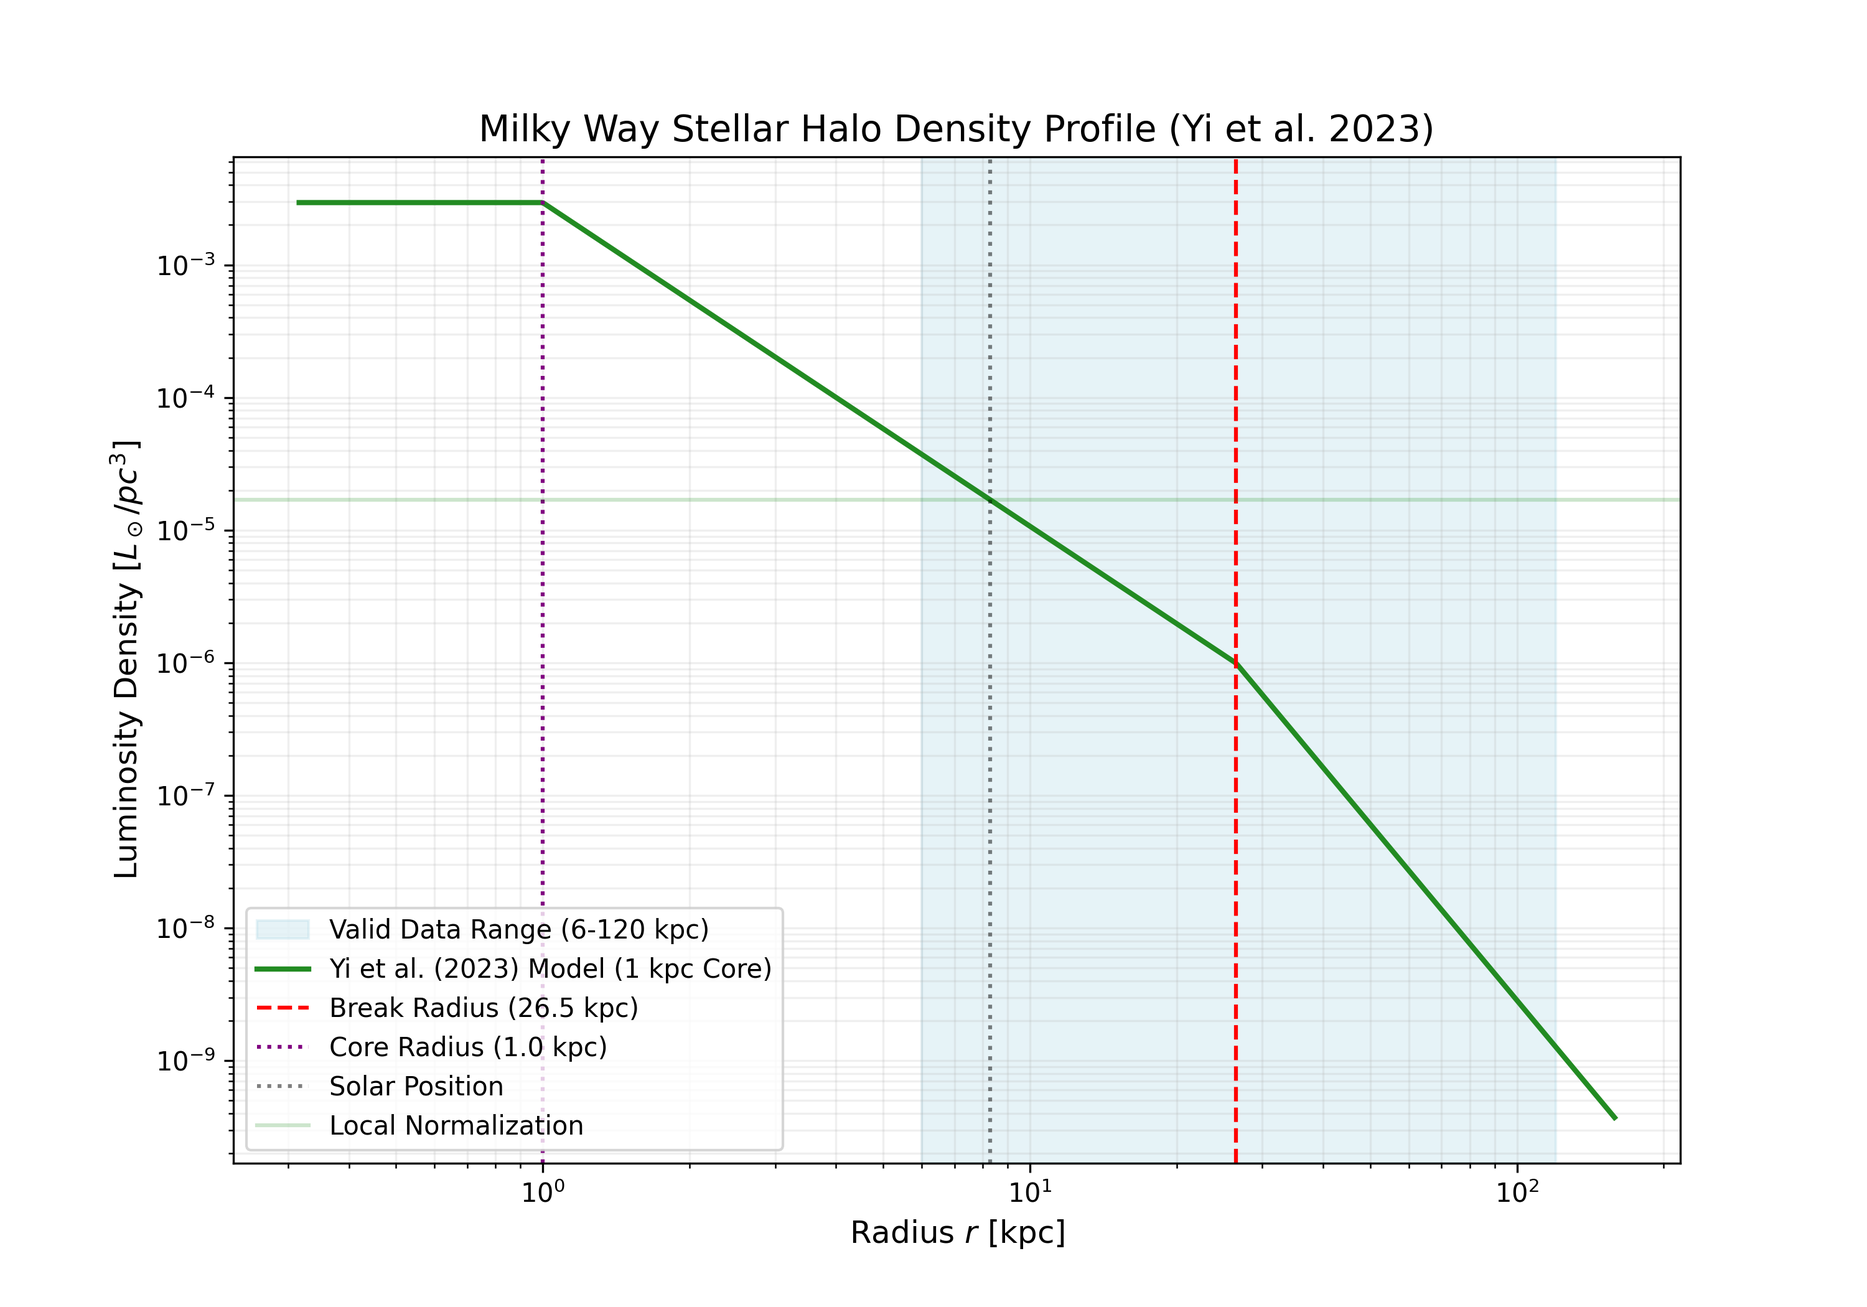
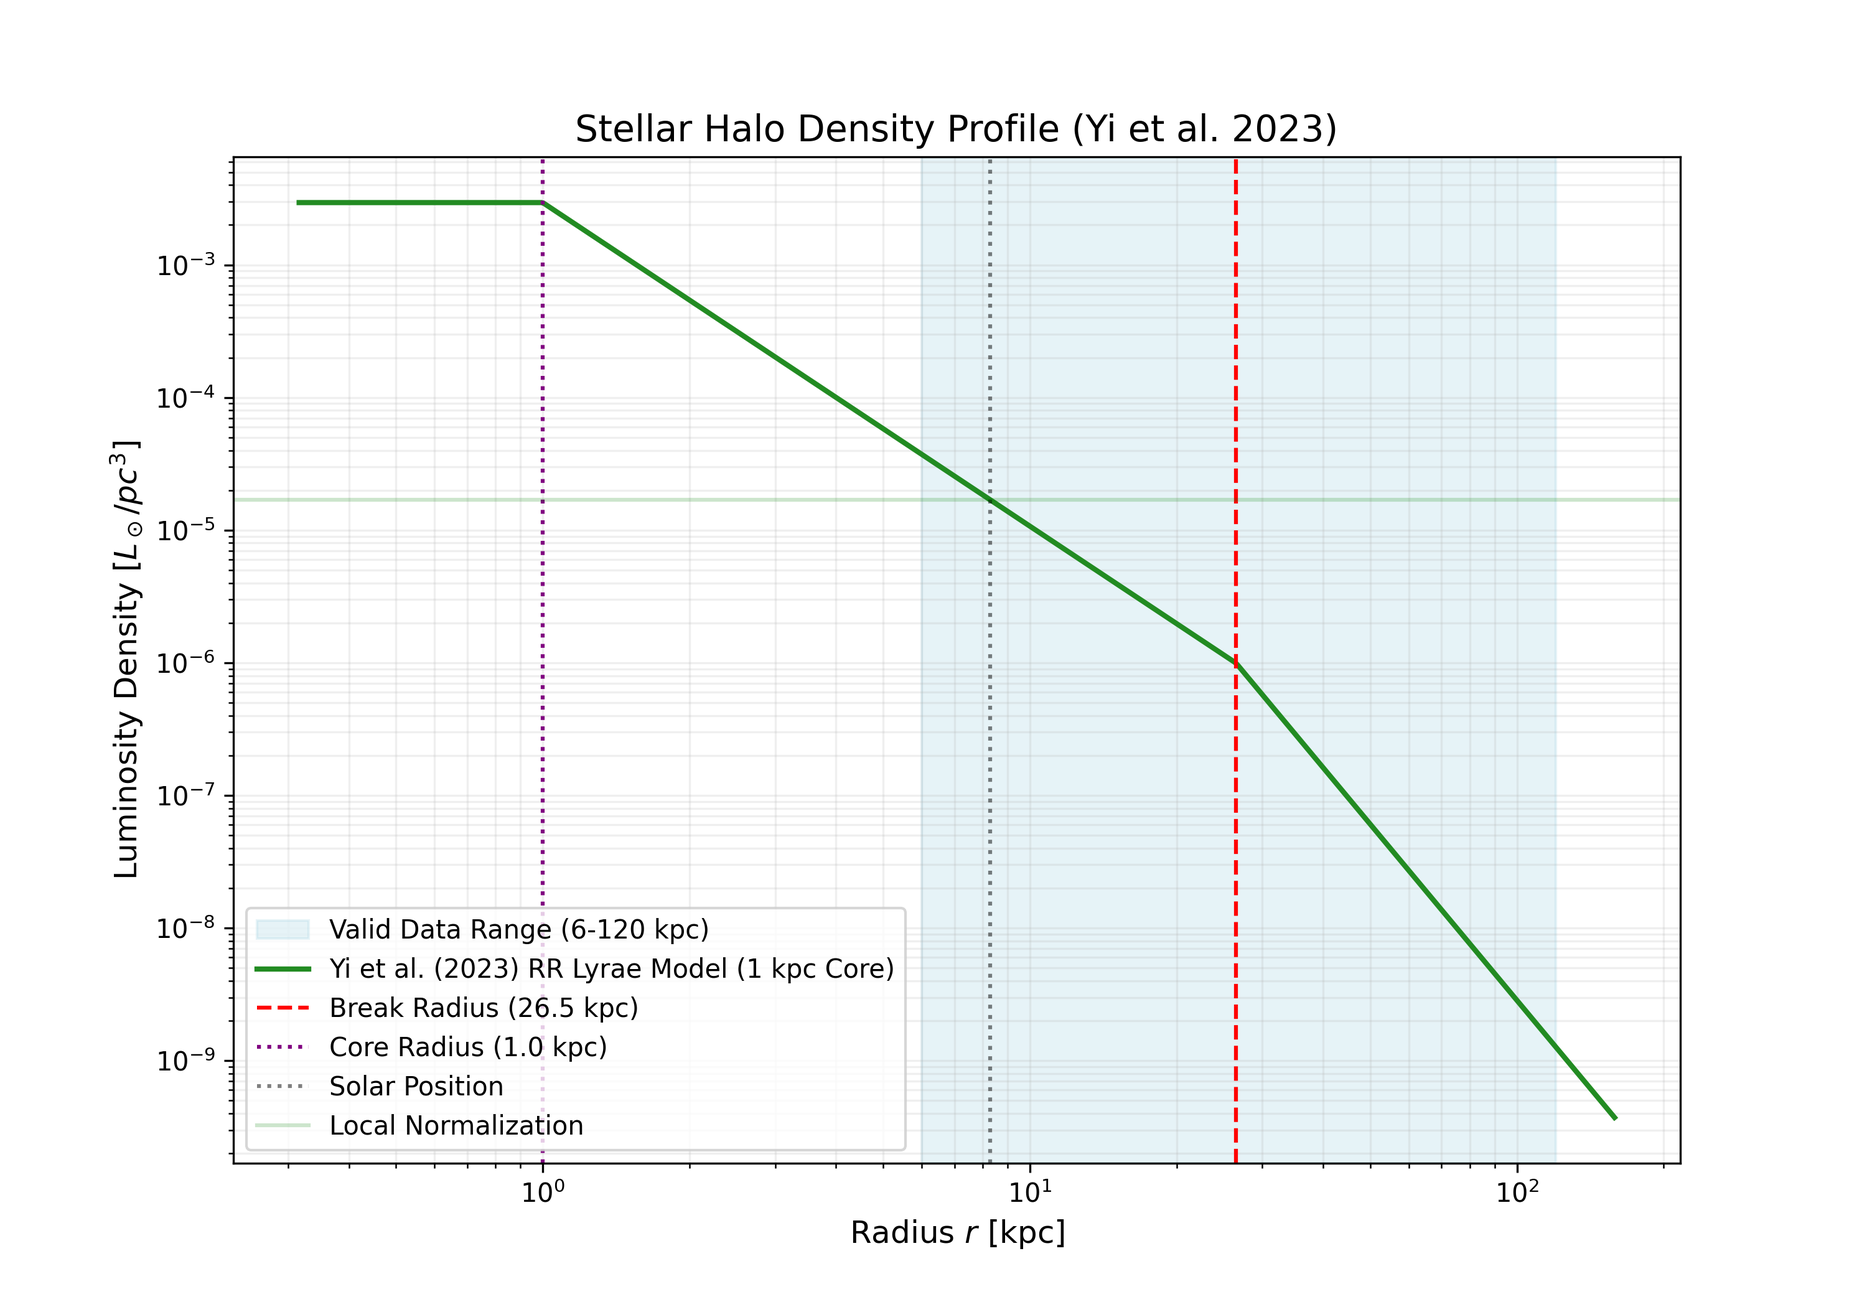
Add files via upload
Fixed a bunch of bugs spotted by PL

Changed region(s): [[0.248, 0.0929, 0.775, 0.1238], [0.279, 0.7119, 0.434, 0.7738]]

diff --git a/script.js b/script.js
@@ -76,7 +76,7 @@ const ModelPhysics = {
             cavieres2025: 4 * Math.PI * 0.8 * 0.7,
             feng2024: 4 * Math.PI * 1.0 * 1.0,
             fukushima2025: 4 * Math.PI * 1.0 * 1.56,
-            ye2023: 4 * Math.PI * 1.0 * 0.73,
+            yi2023: 4 * Math.PI * 1.0 * 0.73,
             tao2026: 4 * Math.PI * 1.0 * 0.8,
             lane2023: 4 * Math.PI * 1.0 * 1.25
         };
@@ -109,7 +109,7 @@ const ModelPhysics = {
             cavieres2025: 0.98,
             feng2024: 1.0,
             fukushima2025: 1.56,
-            ye2023: 0.73,
+            yi2023: 0.73,
             tao2026: 0.8,
             lane2023: 1.25
         };
@@ -292,7 +292,7 @@ const ModelPhysics = {
         return ModelPhysics.applyCore(r, core, (rad) => rho_norm * getRaw(rad));
     },
 
-    ye2023: (r) => {
+    yi2023: (r) => {
         const ai=2.44, ao=4.41, rb=26.5, core=1.0, R_sun=8.275;
         const getRaw = (rad) => rad < rb ? Math.pow(rad, -ai) : Math.pow(rb, ao-ai) * Math.pow(rad, -ao);
         const rho_norm = (1.7e-5) / getRaw(R_sun);

diff --git a/compendium_plots.py b/compendium_plots.py
@@ -1,0 +1,278 @@
+import numpy as np
+import matplotlib.pyplot as plt
+from matplotlib.ticker import LogFormatterExponent
+import json
+
+# =============================================================================
+# MILKY WAY STELLAR HALO COMPENDIUM - STANDALONE VISUALIZATION SUITE
+# This script replicates the interactive visualizations from the HALOLF project.
+# =============================================================================
+
+# Embedded Data (Latest parameters as of June 2026)
+MODELS_JSON = """
+[
+  {"id": "staf256", "title": "Horta & Schiavon (2025)", "luminosity": "1.81e+08 L⊙", "range": {"min": 0, "max": 12}},
+  {"id": "han2022", "title": "Han et al. (2022)", "luminosity": "2.40e+08 L⊙", "range": {"min": 6, "max": 60}},
+  {"id": "amarante2024", "title": "Amarante et al. (2024)", "luminosity": "3.61e+08 L⊙", "range": {"min": 5, "max": 120}},
+  {"id": "chen2023", "title": "Chen et al. (2023)", "luminosity": "3.68e+08 L⊙", "range": {"min": 5, "max": 100}},
+  {"id": "yang2022", "title": "Yang et al. (2022)", "luminosity": "2.07e+08 L⊙", "range": {"min": 5, "max": 50}},
+  {"id": "hernitschek2018", "title": "Hernitschek et al. (2018)", "luminosity": "2.24e+09 L⊙", "range": {"min": 20, "max": 131}},
+  {"id": "horta2021", "title": "Horta et al. (2021)", "luminosity": "3.32e+08 L⊙", "range": {"min": 0, "max": 10}},
+  {"id": "kurbatov2024", "title": "Kurbatov et al. (2024)", "luminosity": "3.99e+08 L⊙", "range": {"min": 1, "max": 18}},
+  {"id": "libinney2022", "title": "Li & Binney (2022)", "luminosity": "5.36e+08 L⊙", "range": {"min": 0, "max": 100}},
+  {"id": "lopezcorredoira2024", "title": "López-Corredoira et al. (2024)", "luminosity": "3.41e+09 L⊙", "range": {"min": 25, "max": 90}},
+  {"id": "lane2023", "title": "Lane et al. (2023)", "luminosity": "4.43e+08 L⊙", "range": {"min": 5, "max": 50}},
+  {"id": "lucey2026", "title": "Lucey et al. (2026)", "luminosity": "1.68e+09 L⊙", "range": {"min": 0.2, "max": 120}},
+  {"id": "mackereth2020", "title": "Mackereth & Bovy (2020)", "luminosity": "3.31e+08 L⊙", "range": {"min": 5, "max": 30}},
+  {"id": "medina2024", "title": "Medina et al. (2024)", "luminosity": "3.90e+08 L⊙", "range": {"min": 5, "max": 200}},
+  {"id": "nibauer2025", "title": "Nibauer et al. (2025)", "luminosity": "9.28e+08 L⊙", "range": {"min": 5, "max": 30}},
+  {"id": "stringer2021", "title": "Stringer et al. (2021)", "luminosity": "3.20e+08 L⊙", "range": {"min": 10, "max": 100}},
+  {"id": "suzuki2026", "title": "Suzuki et al. (2026)", "luminosity": "3.97e+08 L⊙", "range": {"min": 5, "max": 100}},
+  {"id": "wu2025", "title": "Wu et al. (2025)", "luminosity": "1.34e+09 L⊙", "range": {"min": 5, "max": 5}},
+  {"id": "wu2022", "title": "Wu et al. (2022)", "luminosity": "1.83e+09 L⊙", "range": {"min": 5, "max": 120}},
+  {"id": "rix2022", "title": "Rix et al. (2022)", "luminosity": "1.34e+09 L⊙", "range": {"min": 0, "max": 5}},
+  {"id": "cavieres2025", "title": "Cavieres et al. (2025)", "luminosity": "5.79e+08 L⊙", "range": {"min": 20, "max": 100}},
+  {"id": "feng2024", "title": "Feng et al. (2024)", "luminosity": "1.52e+09 L⊙", "range": {"min": 20, "max": 300}},
+  {"id": "fukushima2025", "title": "Fukushima et al. (2025)", "luminosity": "1.82e+09 L⊙", "range": {"min": 36, "max": 575}},
+  {"id": "yi2023", "title": "Yi et al. (2023)", "luminosity": "3.84e+08 L⊙", "range": {"min": 6, "max": 120}},
+  {"id": "tao2026", "title": "Tao et al. (2026)", "luminosity": "6.50e+08 L⊙", "range": {"min": 10, "max": 100}},
+  {"id": "medina2018", "title": "Medina et al. (2018)", "luminosity": "1.19e+09 L⊙", "range": {"min": 10, "max": 200}}
+]
+"""
+
+class ModelPhysics:
+    R_SUN = 8.275
+    RHO_LOCAL_PC3 = 1.7e-5
+    
+    @staticmethod
+    def get_volume_factor(id, r):
+        # 4 * pi * p * q
+        factors = {
+            'staf256': 4 * np.pi * 0.80 * 0.66,
+            'han2022': 4 * np.pi * 0.81 * 0.73,
+            'amarante2024': 4 * np.pi * 1.0 * (0.77 if r < 30 else 0.99),
+            'chen2023': 4 * np.pi * 1.0 * 0.73,
+            'yang2022': 4 * np.pi * 1.0 * (0.5 if r < 5 else (0.8 if r > 30 else 0.5 + 0.3 * (r - 5) / 25)),
+            'hernitschek2018': 4 * np.pi * 1.0 * 0.918,
+            'horta2021': 4 * np.pi * 0.73 * 0.56,
+            'kurbatov2024': 4 * np.pi * 1.0 * 0.5,
+            'libinney2022': 4 * np.pi * 1.0 * 0.65,
+            'lopezcorredoira2024': 4 * np.pi * 1.0 * 1.0,
+            'lucey2026': 4 * np.pi * 1.0 * (1.31 if r < 10 else 0.70),
+            'mackereth2020': 4 * np.pi * 0.73 * 0.56,
+            'medina2024': 4 * np.pi * 1.0 * 0.7,
+            'medina2018': 4 * np.pi * 1.0 * 0.7,
+            'nibauer2025': 4 * np.pi * 0.75 * 0.70,
+            'stringer2021': 4 * np.pi * 1.0 * 0.7,
+            'suzuki2026': 4 * np.pi * 1.0 * 0.7,
+            'wu2025': 4 * np.pi * 1.0 * (0.4 if r < 8 else (0.8 if r > 25 else 0.4 + 0.4 * (r - 8) / 17)),
+            'wu2022': 4 * np.pi * 1.0 * (0.4 if r < 8 else (0.8 if r > 25 else 0.4 + 0.4 * (r - 8) / 17)),
+            'rix2022': 4 * np.pi * 1.0 * 1.0,
+            'cavieres2025': 4 * np.pi * 1.0 * 0.98,
+            'feng2024': 4 * np.pi * 1.0 * 1.0,
+            'fukushima2025': 4 * np.pi * 1.0 * 1.56,
+            'yi2023': 4 * np.pi * 1.0 * 0.73,
+            'tao2026': 4 * np.pi * 1.0 * 0.8,
+            'lane2023': 4 * np.pi * 1.0 * 1.25
+        }
+        return factors.get(id, 4 * np.pi)
+
+    @staticmethod
+    def apply_core(r, core, val):
+        return val if r >= core else ModelPhysics.get_val_at(core, val, r) # simplified
+
+    @staticmethod
+    def get_density(id, r):
+        # Implementation of each model function from script.js
+        def spl(rad, a, core=1.0):
+            r_eff = max(rad, core)
+            return ModelPhysics.RHO_LOCAL_PC3 / (ModelPhysics.R_SUN**-a) * (r_eff**-a)
+
+        def bpl(rad, ai, ao, rb, core=1.0):
+            def raw(r_val):
+                if r_val < rb: return r_val**-ai
+                return (rb**(ao-ai)) * (r_val**-ao)
+            r_eff = max(rad, core)
+            norm = ModelPhysics.RHO_LOCAL_PC3 / raw(ModelPhysics.R_SUN)
+            return norm * raw(r_eff)
+
+        def dbpl(rad, a1, a2, a3, rb1, rb2, core=1.0):
+            def raw(r_val):
+                if r_val < rb1: return r_val**-a1
+                if r_val < rb2: return (rb1**(a2-a1)) * (r_val**-a2)
+                return (rb1**(a2-a1)) * (rb2**(a3-a2)) * (r_val**-a3)
+            r_eff = max(rad, core)
+            norm = ModelPhysics.RHO_LOCAL_PC3 / raw(ModelPhysics.R_SUN)
+            return norm * raw(r_eff)
+
+        if id == 'staf256':
+            a = 3.48; rho_0 = 1.89e+06 / (1000**3)
+            return rho_0 * (1 + (r / a)**2)**-2.5
+        if id == 'han2022': return dbpl(r, 1.7, 3.1, 4.6, 12.0, 28.0)
+        if id == 'amarante2024': return bpl(r, 2.9, 4.5, 19.1)
+        if id == 'chen2023': return bpl(r, 2.83, 4.49, 27.45)
+        if id == 'yang2022': return dbpl(r, 1.5, 2.8, 6.1, 10.0, 25.0)
+        if id == 'hernitschek2018': return spl(r, 4.40)
+        if id == 'horta2021': return spl(r, 3.5)
+        if id == 'kurbatov2024': return spl(r, 3.4)
+        if id == 'libinney2022': return bpl(r, 1.0, 4.5, 20.0)
+        if id == 'lopezcorredoira2024': return spl(r, 4.6)
+        if id == 'lane2023': return dbpl(r, 1.5, 3.5, 5.0, 12.0, 28.0)
+        if id == 'lucey2026': return spl(r, 4.0)
+        if id == 'mackereth2020':
+            a, r_cut = 3.49, 25.0
+            def raw(rd): return (rd**-a) * np.exp(-rd/r_cut)
+            r_eff = max(r, 1.0)
+            return (ModelPhysics.RHO_LOCAL_PC3 / raw(ModelPhysics.R_SUN)) * raw(r_eff)
+        if id == 'medina2024': return bpl(r, 2.05, 4.57, 24.3)
+        if id == 'medina2018': return spl(r, 4.17)
+        if id == 'nibauer2025': return bpl(r, 1.0, 3.5, 20.0)
+        if id == 'stringer2021': return bpl(r, 2.5, 4.25, 20.0)
+        if id == 'suzuki2026': return bpl(r, 3.3, 4.8, 17.4)
+        if id == 'wu2025': return spl(r, 4.65)
+        if id == 'wu2022':
+            a1, a2, rm = 4.92, 4.25, np.exp(3.0)
+            def raw(rd): r_e = max(rd, 1.0); return (rm**(a1-a2)) * (r_e**-a1) + (r_e**-a2)
+            return (ModelPhysics.RHO_LOCAL_PC3 / raw(ModelPhysics.R_SUN)) * raw(r)
+        if id == 'rix2022': return spl(r, 4.0)
+        if id == 'cavieres2025': return bpl(r, 3.13, 7.46, 67.5)
+        if id == 'feng2024': return spl(r, 4.09)
+        if id == 'fukushima2025': return bpl(r, 3.90, 9.1, 184.0)
+        if id == 'yi2023': return bpl(r, 2.44, 4.41, 26.5)
+        if id == 'tao2026': return spl(r, 3.5)
+        return 0
+
+def plot_luminosity_summary(model_data):
+    """Replicates the home page bar chart."""
+    titles = [m['title'] for m in model_data]
+    lums = [float(m['luminosity'].split(' ')[0]) for m in model_data]
+    
+    # Sort by luminosity descending
+    sorted_indices = np.argsort(lums)[::-1]
+    titles = [titles[i] for i in sorted_indices]
+    lums = [lums[i] for i in sorted_indices]
+
+    plt.figure(figsize=(12, 6))
+    bars = plt.bar(titles, lums, color='#2c3e50', alpha=0.8, edgecolor='black', linewidth=0.5)
+    
+    plt.yscale('log')
+    plt.ylabel('Total Stellar Halo Luminosity [$L_\\odot$]', fontsize=12)
+    plt.xticks(rotation=45, ha='right', fontsize=9)
+    plt.title('Compendium of Milky Way Stellar Halo Luminosities', fontsize=14, fontweight='bold', pad=20)
+    plt.grid(axis='y', linestyle='--', alpha=0.3)
+    
+    # Add values on top
+    for bar in bars:
+        height = bar.get_height()
+        plt.text(bar.get_x() + bar.get_width()/2., height * 1.1, f'{height:.1e}', 
+                 ha='center', va='bottom', rotation=90, fontsize=8, color='#555')
+
+    plt.tight_layout()
+    plt.savefig('luminosity_summary.pdf')
+    plt.savefig('luminosity_summary.png', dpi=300)
+    print("Saved: luminosity_summary.pdf/png")
+
+def plot_unified_comparison(model_data):
+    """Replicates the interactive two-panel comparison plot."""
+    r_plot = np.logspace(-1, 2.7, 400) # 0.1 to 500 kpc
+    
+    fig, (ax1, ax2) = plt.subplots(2, 1, figsize=(10, 10), sharex=True, 
+                                   gridspec_kw={'height_ratios': [1, 1], 'hspace': 0.05})
+    
+    # Custom color palette (26 colors)
+    colors = plt.cm.tab20(np.linspace(0, 1, 20)).tolist() + plt.cm.Set3(np.linspace(0, 1, 10)).tolist()
+
+    for idx, model in enumerate(model_data):
+        mid = model['id']
+        m_range = model['range']
+        color = colors[idx % len(colors)]
+        
+        # 1. Calculate Density Curves
+        rho_vals = np.array([ModelPhysics.get_density(mid, r) for r in r_plot])
+        
+        # Split into Valid and Extrapolated
+        mask_valid = (r_plot >= m_range['min']) & (r_plot <= m_range['max'])
+        
+        # Plot Extrapolation (Dashed)
+        ax1.loglog(r_plot, rho_vals, color=color, linestyle='--', linewidth=1, alpha=0.6)
+        
+        # Plot Valid Range (Solid Bold)
+        if np.any(mask_valid):
+            # We plot segments to avoid connecting jumps across gap if range is complex
+            ax1.loglog(r_plot[mask_valid], rho_vals[mask_valid], color=color, 
+                       linestyle='-', linewidth=3.5, label=model['title'])
+
+        # 2. Calculate Cumulative Luminosity (Log-spaced integration)
+        # Integration steps from 10^-4 to 500 kpc
+        log_steps = np.linspace(-4, np.log10(500), 5000)
+        dv = log_steps[1] - log_steps[0]
+        ln10 = np.log(10)
+        
+        running_L = 0
+        l_cum_at_r = []
+        
+        # Precompute densities for integration steps
+        integration_r = 10**log_steps
+        integration_rho = np.array([ModelPhysics.get_density(mid, r) for r in integration_r])
+        
+        # Cumulative integration
+        # dL = rho_kpc3 * 4*pi*p*q * r^2 * dr
+        # dr = r * ln(10) * dv
+        for j in range(len(log_steps)):
+            r = integration_r[j]
+            rho_kpc3 = integration_rho[j] * (1000**3)
+            vol_factor = ModelPhysics.get_volume_factor(mid, r)
+            dL = rho_kpc3 * vol_factor * (r**2) * (r * ln10 * dv)
+            running_L += dL
+            l_cum_at_r.append(running_L)
+            
+        l_cum_interp = np.interp(r_plot, integration_r, l_cum_at_r)
+        ax2.loglog(r_plot, l_cum_interp, color=color, linestyle='-', linewidth=2.5, alpha=0.9)
+
+    # Styling Panel 1 (Density)
+    ax1.set_ylabel('Luminosity Density [$L_\\odot/pc^3$]', fontsize=12)
+    ax1.set_ylim(1e-14, 10)
+    ax1.grid(True, which="both", ls="-", alpha=0.1)
+    ax1.set_title('Interactive Comparison Suite: Density & Enclosed Luminosity', fontsize=14, fontweight='bold')
+    
+    # Legend handling
+    ax1.legend(loc='upper left', bbox_to_anchor=(1.02, 1), fontsize=8, frameon=False, ncol=1)
+    
+    # Styling Panel 2 (Cumulative)
+    ax2.set_xlabel('Galactocentric Radius $R$ [kpc]', fontsize=12)
+    ax2.set_ylabel('Total Enclosed Luminosity [$L_\\odot$]', fontsize=12)
+    ax2.set_ylim(1e3, 1e11)
+    ax2.set_xlim(0.1, 500)
+    ax2.grid(True, which="both", ls="-", alpha=0.1)
+
+    # Formatting axes with E notation (1E-6 format)
+    class EFormatter(LogFormatterExponent):
+        def __call__(self, x, pos=None):
+            if x == 0: return '0'
+            exp = int(np.floor(np.log10(x)))
+            return f"1E{exp:+d}" if exp != 0 else "1E+0"
+
+    ax1.yaxis.set_major_formatter(EFormatter())
+    ax2.yaxis.set_major_formatter(EFormatter())
+
+    # Add physical markers
+    for ax in [ax1, ax2]:
+        ax.axvline(8.275, color='green', linestyle='-.', alpha=0.5, label='Sun ($R_\\odot$)' if ax == ax1 else "")
+        # Box borders
+        for spine in ax.spines.values():
+            spine.set_edgecolor('black')
+            spine.set_linewidth(1.2)
+
+    plt.tight_layout()
+    fig.subplots_adjust(right=0.75) # Make room for legend
+    plt.savefig('unified_comparison.pdf')
+    plt.savefig('unified_comparison.png', dpi=300)
+    print("Saved: unified_comparison.pdf/png")
+
+if __name__ == "__main__":
+    data = json.loads(MODELS_JSON)
+    
+    print("Generating compendium figures...")
+    plot_luminosity_summary(data)
+    plot_unified_comparison(data)
+    print("Done. Check the current directory for PDF and PNG outputs.")

diff --git a/assets/yi2023_density_model.py b/assets/yi2023_density_model.py
@@ -3,7 +3,7 @@ import matplotlib.pyplot as plt
 
 def calculate_yi2023_halo():
     # Parameters from Yi et al. (2023) - MNRAS 525, 2472
-    # Model: Broken Power Law (LAMOST-Gaia common K giants)
+    # Model: Broken Power Law (Gaia DR3 RR Lyrae)
     alpha_in = 2.44
     alpha_out = 4.41
     r_break = 26.5
@@ -18,11 +18,14 @@ def calculate_yi2023_halo():
     # Broken Power Law Profile with Core
     def profile(r):
         if r < r_core:
-            return r_core**-alpha_in
-        elif r < r_break:
-            return r**-alpha_in
+            r_eff = r_core
         else:
-            return (r_break**(alpha_out - alpha_in)) * (r**-alpha_out)
+            r_eff = r
+            
+        if r_eff < r_break:
+            return r_eff**-alpha_in
+        else:
+            return (r_break**(alpha_out - alpha_in)) * (r_eff**-alpha_out)
 
     # Normalization at the Sun
     norm_at_sun = profile(R_sun)
@@ -31,17 +34,14 @@ def calculate_yi2023_halo():
     # Analytical Integration for Luminosity
     # L = 4 * pi * q * Integral[ rho(r) * r^2 dr ]
     
-    # Part 0: 0 to r_core
-    int0 = (r_core**-alpha_in) * (r_core**3 / 3.0)
-    # Part 1: r_core to r_break
-    int1 = (r_break**(3 - alpha_in) - r_core**(3 - alpha_in)) / (3 - alpha_in)
-    # Part 2: r_break to infinity
-    C = r_break**(alpha_out - alpha_in)
-    int2 = C * (0 - r_break**(3 - alpha_out)) / (3 - alpha_out)
+    def integrand(r):
+        return profile(r) * r**2
     
-    L_total = 4 * np.pi * q * rho_0 * (int0 + int1 + int2)
+    from scipy.integrate import quad
+    res, err = quad(integrand, 0, 500)
+    L_total = 4 * np.pi * q * (rho_0) * res
 
-    print(f"--- Yi et al. (2023) LAMOST-Gaia Halo Properties ---")
+    print(f"--- Yi et al. (2023) Gaia DR3 RR Lyrae Halo Properties ---")
     print(f"Central Norm (rho_0 at 1kpc): {rho_0:.2e} Lsun/kpc^3")
     print(f"Total Halo Luminosity:        {L_total:.2e} Lsun")
     print(f"Break Radius (r_break):       {r_break} kpc")
@@ -49,7 +49,7 @@ def calculate_yi2023_halo():
     print(f"Inner Slope (alpha_in):       {alpha_in}")
     print(f"Outer Slope (alpha_out):      {alpha_out}")
     print(f"Flattening (q):               {q}")
-    print(f"----------------------------------------------------")
+    print(f"----------------------------------------------------------")
 
     # Plotting
     r_vals = np.logspace(-0.5, 2.2, 500)
@@ -57,7 +57,7 @@ def calculate_yi2023_halo():
 
     plt.figure(figsize=(10, 7))
     plt.axvspan(6, 120, color='lightblue', alpha=0.3, label='Valid Data Range (6-120 kpc)')
-    plt.loglog(r_vals, rho_vals / (1000**3), color='forestgreen', linewidth=2, label='Yi et al. (2023) Model (1 kpc Core)')
+    plt.loglog(r_vals, rho_vals / (1000**3), color='forestgreen', linewidth=2, label='Yi et al. (2023) RR Lyrae Model (1 kpc Core)')
     
     # Markers
     plt.axvline(r_break, color='red', linestyle='--', label=f'Break Radius ({r_break} kpc)')
@@ -65,7 +65,7 @@ def calculate_yi2023_halo():
     plt.axvline(R_sun, color='black', linestyle=':', alpha=0.5, label='Solar Position')
     plt.axhline(rho_local_Lsun_pc3, color='green', linestyle='-', alpha=0.2, label='Local Normalization')
 
-    plt.title('Milky Way Stellar Halo Density Profile (Yi et al. 2023)', fontsize=14)
+    plt.title('Stellar Halo Density Profile (Yi et al. 2023)', fontsize=14)
     plt.xlabel('Radius $r$ [kpc]', fontsize=12)
     plt.ylabel('Luminosity Density [$L_\\odot/pc^3$]', fontsize=12)
     plt.legend(frameon=True)

diff --git a/assets/wu2022_density_model.py b/assets/wu2022_density_model.py
@@ -57,7 +57,7 @@ def calculate_wu2022_halo():
     L_total = 4 * np.pi * result
 
     print(f"--- Wu et al. (2022) - Influence of the Gaia-Sausage-Enceladus on the Density Shape of the Galactic Stellar Halo ---")
-    print(f"Model:                Sum of two Power Laws")
+    print(f"Model:                Sum of two simple power-laws")
     print(f"Total Halo Luminosity: {L_total:.2e} Lsun")
     print(f"Alpha 1 (Inner-ish):   {a1}")
     print(f"Alpha 2 (Outer-ish):   {a2}")
